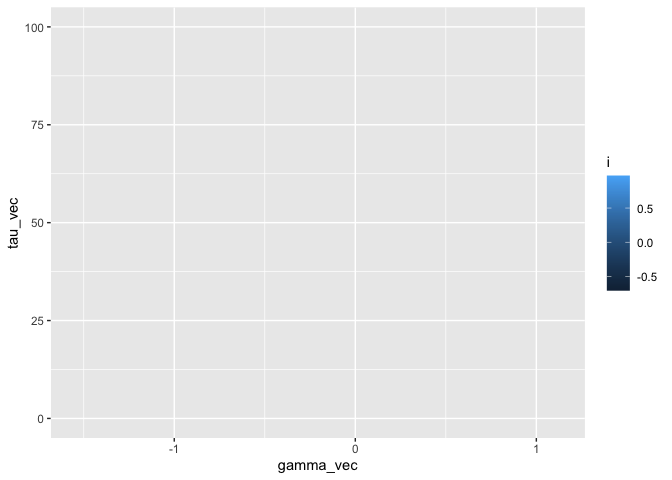
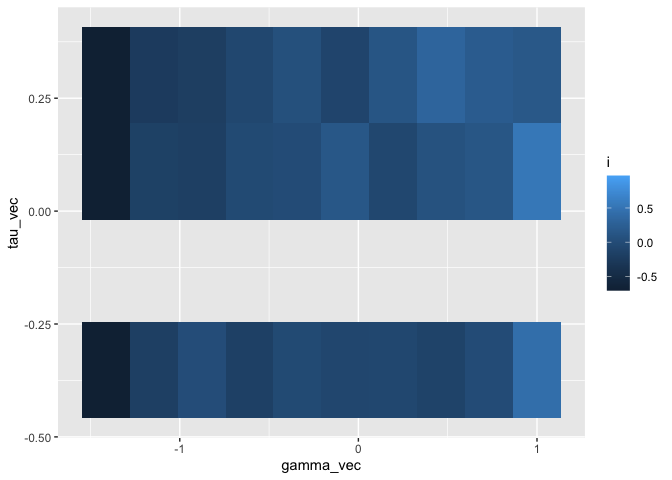
fix math

diff --git a/_posts/2021-03-04-spatial_sim.md b/_posts/2021-03-04-spatial_sim.md
@@ -1,7 +1,7 @@
 ---
 title: "Simulating Spatially Autocorrelated Data"
 author: "Ethan Roubenoff"
-date: "3/4/2021"
+date: "4/3/2021"
 output:
   md_document:
     variant: gfm
@@ -14,17 +14,16 @@ always_allow_html: true
 ---
 
 My [first post](http://www.eroubenoff.net/2021-03-03-dead_lyrics/) was a
-lot of fun but I wanted to do a real post on something academic.
-I'm working my way though old markdown scratch notebooks to fill out 
-this blog, and I'll admit that this one is much less charming! Anyway.
-
-Something I’ve struggled with is simulating good spatial data for
-testing; it’s really hard to come up with true autocorrelated data. The
-easiest way I’ve found is with [NIMBLE](https://r-nimble.org/).
+lot of fun but I wanted to do a real post on something academic.  
+I’m working my way through old markdown scratch notebooks to fill out
+this blog, and I’ll admit that this one is much less charming! Something
+I’ve struggled with is simulating good spatial data for testing; it’s
+really hard to come up with true autocorrelated data. The easiest way
+I’ve found is with [NIMBLE](https://r-nimble.org/).
 
 Let’s work with the CA counties dataset:
 
-    CA_shp <- tigris::counties(state = "CA", cb = TRUE, class = "sf", refresh=TRUE)
+    invisible({capture.output({CA_shp <- tigris::counties(state = "CA", cb = TRUE, class = "sf", refresh=TRUE)})})
     suppressMessages(qtm(CA_shp))
 
 ![](/assets/img/2021-03-04-spatial_sim/unnamed-chunk-2-1.png)<!-- --> I
@@ -43,9 +42,8 @@ it for its R-native implementation of Bugs, this is super helpful.
 
 Let’s first talk about autoregressive distributions. The simplest one is
 the intrinsically autoregressive (IAR) distribution:
-$$
-  \\phi\_i\|\\Phi\_{-i} \\sim N\\left(\\frac{1}{n(j\\sim i)} \\sum\_{j \\sim i}{\\phi\_j}, \\tau^2 \\right)
-$$
+
+$$\\phi\_i\|\\Phi\_{-i} \\sim N\\left(\\frac{1}{n(j\\sim i)} \\sum\_{j \\sim i}{\\phi\_j}, \\tau^2 \\right)$$
 
 I think this is the simplest spatial model but it is far from perfect.
 Each observation is assumed to be normally distributed with mean equal
@@ -70,7 +68,8 @@ there’s any ambiguity what’s going on there.
 However, as mentioned above, this doesn’t integrate. It works great as a
 prior, but you can’t simulate from it. For that, we turn to the *proper*
 conditionally autoregressive distribution (CAR):
-*ϕ*<sub>*i*</sub>\|*Φ*<sub> − *i*</sub>, *μ*, *γ*, *C* ∼ *N*(*μ*<sub>*i*</sub>+∑<sub>*j* ∼ *i*</sub>*ρ**C*<sub>*i**j*</sub>(*ϕ*<sub>*j*</sub> − *μ*<sub>*i*</sub>),*τ*<sup>2</sup>)
+
+*ϕ*<sub>*i*</sub>\|*Φ*<sub> − *i*</sub>, *μ*, *γ*, *C* ∼ *N*(*μ*<sub>*i*</sub>+∑<sub>*j* ∼ *i*</sub>*γ**C*<sub>*i**j*</sub>(*ϕ*<sub>*j*</sub> − *μ*<sub>*i*</sub>),*τ*<sup>2</sup>)
 
 The funky thing here is the addition of *γ*, the
 <sub>autocorrelation</sub> paramter. This isn’t really autocorrelation
@@ -260,11 +259,17 @@ Looks like rho/gamma need to be within -1.414 and 1. Let’s test:
 
 
 
-    for (i in 1:nrow(df)) {
-      df[i, "i"]  <- sim.f(df[i, "gamma_vec"], df[i, "tau_vec"], CA_shp, adj, num)
+    if (F) {
+      for (i in 1:nrow(df)) {
+        df[i, "i"]  <- sim.f(df[i, "gamma_vec"], df[i, "tau_vec"], CA_shp, adj, num)
+      }
+      save(df, file = "morans_df.Rdata")
+    } else {
+      load("morans_df.Rdata")
     }
 
-    # df$tau_vec <- log10(df$tau_vec)
+
+    df$tau_vec <- log10(df$tau_vec)
 
 
     ggplot(df) +
@@ -293,7 +298,7 @@ them:
     ##  Asymptotic General Independence Test
     ## 
     ## data:  i by gamma_vec, tau_vec
-    ## maxT = 8.6712, p-value < 2.2e-16
+    ## maxT = 4.3973, p-value = 2.192e-05
     ## alternative hypothesis: two.sided
 
 Nope! Not independent :+)
